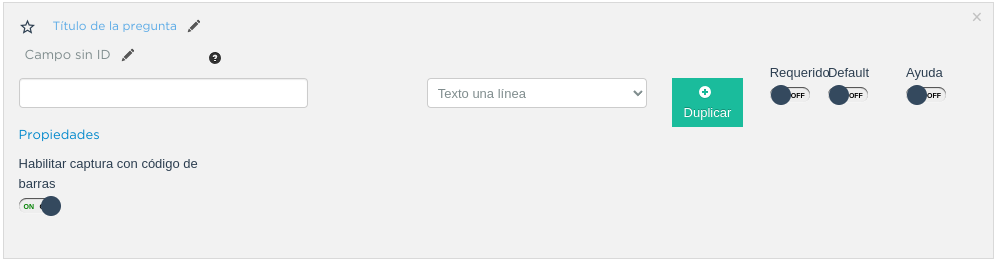
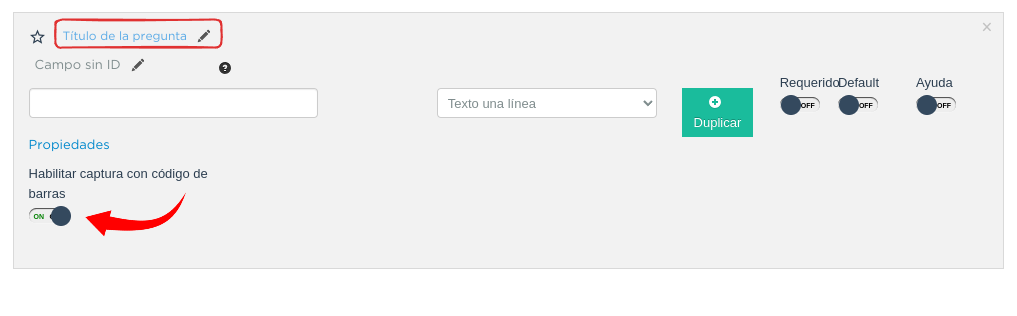
Actualización en los campos de texto sobre formas

diff --git a/content/Usuario/Formas/index.rst b/content/Usuario/Formas/index.rst
@@ -61,35 +61,39 @@ Para establecer o cambiar el nombre de una forma, siga los pasos:
 Páginas en la forma
 -------------------
 
-El propósito de las páginas dentro de la forma es dividirla para organizar la información de manera clara y fácil de navegar. Es especialmente útil si su formulario es extenso. Puede crear las páginas necesarias, que por defecto van tomando el número de página por orden de creación, es decir, página 1, página 2, etc.
-
-Para definir o cambiar el nombre de una página es sencillo. Siga las siguientes pasos:
-
-1. Identifique la página en la que se encuentra, que por defecto al abrir la forma es la **Pagina 1**.
-2. Haga doble clic en el título o ícono de edición de la página ubicado en la parte superior.
-3. Ingrese el nuevo nombre.
-4. Presione Enter.
-
-.. image:: /imgs/Formas/Formas4.jpg
+Las páginas son útiles para organizar la información de formularios extensas de manera clara y fácil de navegar.
 
 Para agregar una nueva página, simplemente presione el botón verde ``Nueva página``. 
 
 .. image:: /imgs/Formas/Formas103.png
 
-Para eliminar una página haga clic en el icono ``x`` ubicado al lado del nombre de la página.
+.. note:: Puede crear las páginas necesarias, que por defecto van tomando el número de página por orden de creación, es decir, página 1, página 2, etc.
+
+Para definir o cambiar el nombre de una página es sencillo. Siga los siguientes pasos:
+
+1. Identifique la página en la que se encuentra, que por defecto al abrir la forma es la **Pagina 1**.
+2. Haga doble clic en el título o ícono de edición de la página ubicado en la parte superior media.
+3. Ingrese el nuevo nombre.
+4. Presione Enter.
+
+.. image:: /imgs/Formas/Formas4.jpg
+
+Para eliminar una página haga clic en el icono ``x`` ubicado a un costado del nombre de la página.
 
 .. image:: /imgs/Formas/Formas105.png
 
-Si tiene un formulario extenso utilice el buscador que permite filtrar las páginas. 
+.. hint:: Si tiene un formulario extenso, utilice el buscador que permite filtrar las páginas.
 
-.. image:: /imgs/Formas/Formas104.png
+  .. image:: /imgs/Formas/Formas104.png
 
 .. _opciones-campos:
 
 Campos
 ------
 
-Linkaform proporciona campos básicos para personalizar sus formas o :ref:`catalogo` :octicon:`report;1em;sd-text-info`. Ambos comparten las siguientes características y campos.
+Los campos son elementos del formulario que permiten recopilar y almacenar la información. Para preparar su propio formulario, Linkaform proporciona campos básicos para personalizar sus formas o :ref:`catalogo` :octicon:`report;1em;sd-text-info`.
+
+En la siguiente tabla, encontrará características que están disponibles para algunos campos y que realizan acciones específicas dependiendo del campo.
 
 .. list-table::
    :widths: 25 75
@@ -105,7 +109,7 @@ Linkaform proporciona campos básicos para personalizar sus formas o :ref:`catal
    * - Duplicar
      - Crea una copia exacta del campo.
    * - Config
-     - Establece cantidades límites, orígenes de archivos permitidos, impresión de fechas y localizaciones.
+     - Configuraciones para establecer cantidades límite de imágenes o documentos, orígenes de archivos permitidos, impresión de fechas y localizaciones.
    * - Requerido
      - Hace obligatoria la respuesta al campo al crear un registro.
    * - Default
@@ -123,6 +127,8 @@ Linkaform proporciona campos básicos para personalizar sus formas o :ref:`catal
    * - Ayuda
      - Habilita una opción de texto adicional en el campo como referencia a la respuesta solicitada.
 
+.. importante:: Actualizar el nombre es una opción disponible para **todos** los campos. Cuando crea un campo nuevo, por defecto tiene el nombre ``Título de la pregunta``. Pulse sobre él o sobre el icono de edición, ingrese el nuevo nombre y pulse ``Enter`` para identificar el campo.
+
 .. _configuracion:
 
 Campo texto 
@@ -134,9 +140,11 @@ Los campos de tipo texto son utilizados para capturar datos que consisten en car
 
     .. tab-item:: Texto una línea
 
-        Están diseñados para recopilar respuestas breves, con una limitación de hasta 500 caracteres. Estos campos presentan una interfaz de entrada de una sola línea, ideal para capturar información concisa como nombres, direcciones o números de teléfono.
+        El campo de texto en línea está diseñado para recopilar respuestas breves, con una limitación de hasta 500 caracteres. 
         
-        Este campo ofrece la posibilidad de activar la lectura de códigos de barras y códigos QR para una entrada eficiente de datos.
+        Estos campos presentan una interfaz de entrada de una sola línea, ideal para capturar información concisa como nombres, direcciones o números de teléfono.
+        
+        Este campo ofrece la posibilidad de activar la lectura de códigos de barras y códigos QR para una entrada eficiente de datos. Para utilizarlo, simplemente active la opción correspondiente como se muestra en la imagen.        
 
         .. image:: /imgs/Formas/Formas6.png
 
